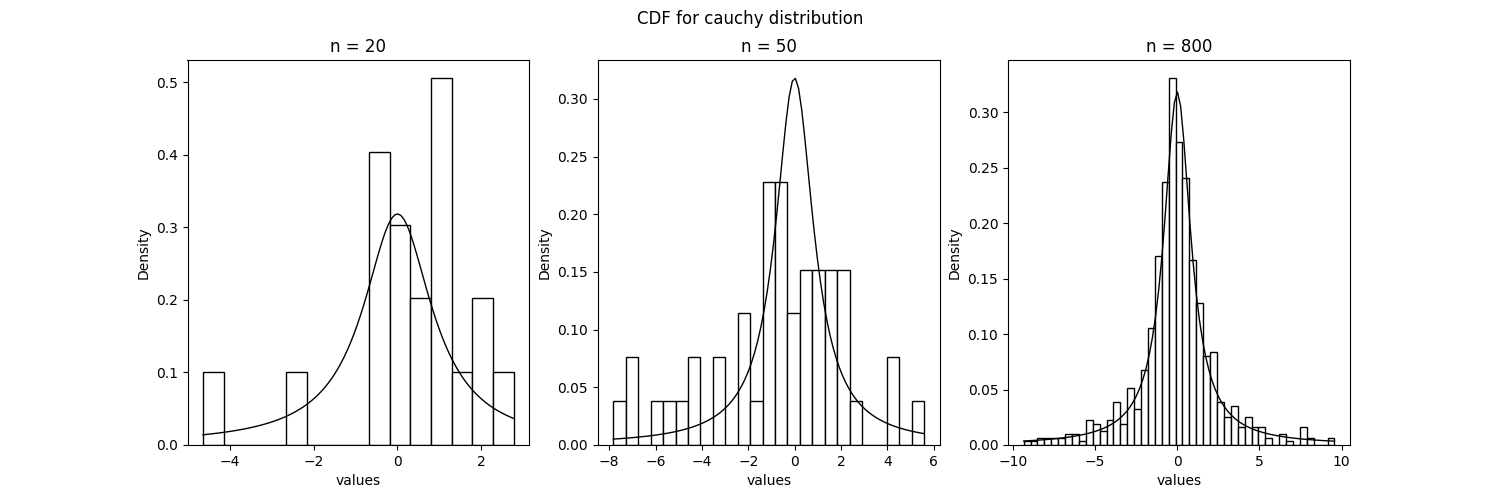
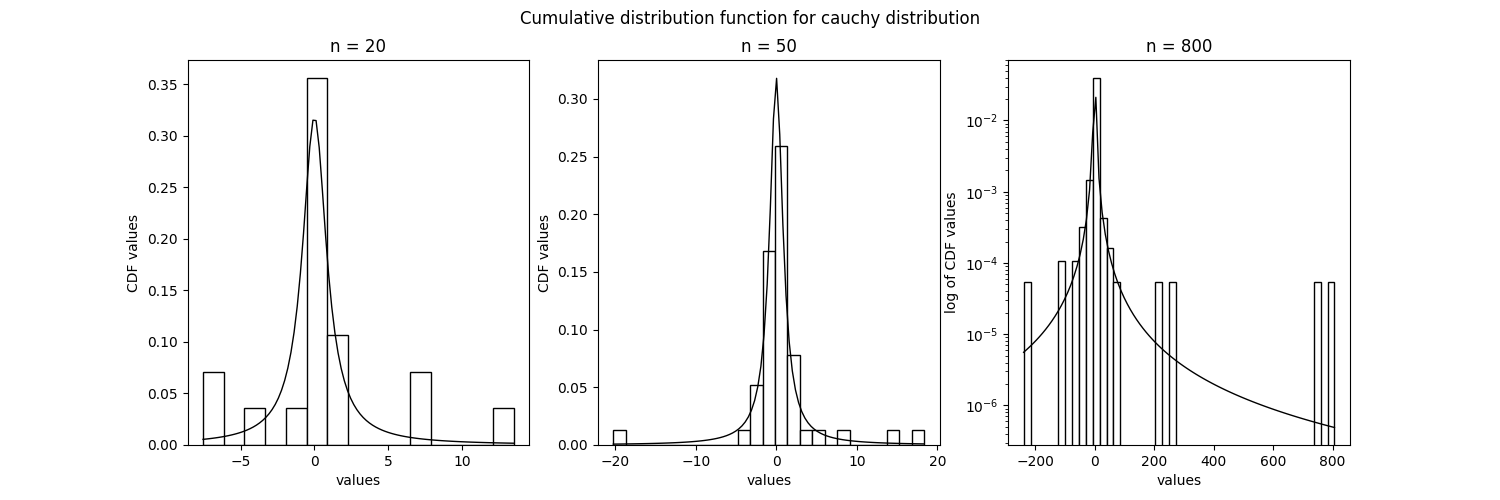
lab3-4

diff --git a/lab3-4/lab4.py b/lab3-4/lab4.py
@@ -1,0 +1,109 @@
+import numpy as np
+import pandas as pd
+import math
+import scipy
+import matplotlib.pyplot as plt
+import seaborn as sns
+
+ns = np.array([20, 100])
+significance = 0.05
+confidence_level = 1 - significance / 2 # 0.975
+
+data = {
+    'n': [],
+    'mean_min': [],
+    'mean_max': [],
+    'dev_min': [],
+    'dev_max': [],
+}
+
+figure, axes = plt.subplots(1, len(ns) * 2, figsize=(20, 10))
+
+for index, n in enumerate(ns):
+    sample = np.random.normal(0, 1, n)
+    mean = sample.mean()
+    dev = np.std(sample)
+    student_value = scipy.stats.t.ppf(confidence_level, n)
+    chi_square_value_min = scipy.stats.chi2.ppf(1 - significance / 2, n)
+    chi_square_value_max = scipy.stats.chi2.ppf(significance / 2, n)
+
+    mean_min = mean - dev * student_value / math.sqrt(n)
+    mean_max = mean + dev * student_value / math.sqrt(n)
+
+    dev_min = math.sqrt(n) * dev / math.sqrt(chi_square_value_min)
+    dev_max = math.sqrt(n) * dev / math.sqrt(chi_square_value_max)
+
+    data['n'].append(n)
+    data['mean_min'].append(mean_min)
+    data['mean_max'].append(mean_max)
+    data['dev_min'].append(dev_min)
+    data['dev_max'].append(dev_max)
+
+    sns.histplot(sample, ax=axes[index], stat='density', color='#FFEFD0')
+    axes[index].axvline(x=mean_min, color='#D400C9', linewidth=2, marker='o', markersize=10)
+    axes[index].axvline(x=mean_max, color='#D400C9', linewidth=2, marker='o', markersize=10)
+    axes[index].axvline(x=mean_min - dev_max, color='#0007FF', linewidth=2, marker='o', markersize=10)
+    axes[index].axvline(x=mean_max + dev_max, color='#0007FF', linewidth=2, marker='o', markersize=10)
+
+sns.lineplot(x='x', y='y', data={
+    'x': np.array([data['mean_min'][0], data['mean_max'][0]]),
+    'y': np.array([1, 1]),
+}, ax=axes[2], color='#D400C9', label='m interval n=20', linewidth=3, marker='o', markersize=10)
+sns.lineplot(x='x', y='y', data={
+    'x': np.array([data['mean_min'][1], data['mean_max'][1]]),
+    'y': np.array([1.1, 1.1]),
+}, ax=axes[2], color='#0007FF', label='m interval n=100', linewidth=3, marker='o', markersize=10)
+axes[2].set_ylim(0.9, 1.4)
+axes[2].legend()
+
+sns.lineplot(x='x', y='y', data={
+    'x': np.array([data['dev_min'][0], data['dev_max'][0]]),
+    'y': np.array([1, 1]),
+}, ax=axes[3], color='#D400C9', label='sigma interval n=20', linewidth=3, marker='o', markersize=10)
+sns.lineplot(x='x', y='y', data={
+    'x': np.array([data['dev_min'][1], data['dev_max'][1]]),
+    'y': np.array([1.1, 1.1]),
+}, ax=axes[3], color='#0007FF', label='sigma interval n=100', linewidth=3, marker='o', markersize=10)
+axes[3].set_ylim(0.9, 1.4)
+axes[3].legend()
+
+figure.savefig('plots/hists.png')
+
+result_df = pd.DataFrame(data)
+result_df.to_csv('res4/normal.csv', index=False)
+result_df
+
+significance = 0.05
+confidence_level = 1 - significance / 2 # 0.975
+
+data = {
+    'n': [],
+    'mean_min': [],
+    'mean_max': [],
+    'dev_min': [],
+    'dev_max': [],
+}
+
+for index, n in enumerate(ns):
+    sample = np.random.random(n)
+    mean = sample.mean()
+    s = math.sqrt(((sample - mean) ** 2 / n).sum())
+    m4 = ((sample - mean) ** 4).sum() / n
+    e = m4 / s ** 4 - 3
+    student_value = scipy.stats.t.ppf(confidence_level, n)
+
+    dev_min = s * (1 - 0.5 * student_value * math.sqrt(e + 2) / 10)
+    dev_max = s * (1 + 0.5 * student_value * math.sqrt(e + 2) / 10)
+
+    mean_min = mean - dev * student_value / math.sqrt(n)
+    mean_max = mean + dev * student_value / math.sqrt(n)
+
+    data['n'].append(n)
+    data['mean_min'].append(mean_min)
+    data['mean_max'].append(mean_max)
+    data['dev_min'].append(dev_min)
+    data['dev_max'].append(dev_max)
+
+result_df = pd.DataFrame(data)
+result_df.to_csv('res4/random.csv', index=False)
+result_df

diff --git a/lab1-2/graphics.py b/lab1-2/graphics.py
@@ -3,35 +3,34 @@ from math import gamma
 import matplotlib.pyplot as plt
 
 
-def print_graphics(values: list) -> None:
+def print_graphics(N: list) -> None:
     # Normal distribution
     mu_normal = 0.0
     var_normal = 1.0
-    sample_normal = [np.random.normal(mu_normal, var_normal, n) for n in values]
+    sample_normal = [np.random.normal(mu_normal, var_normal, n) for n in N]
 
     # Cauchy distribution
     mu_cauchy = 0.0
     var_cauchy = 1.0
-    sample_cauchy = [mu_cauchy + var_cauchy * np.random.standard_cauchy(n) for n in values]
+    sample_cauchy = [mu_cauchy + var_cauchy * np.random.standard_cauchy(n) for n in N]
 
     # Student's distribution
     t_student = 3.0
-    sample_student = [np.random.standard_t(t_student, n) for n in values]
+    sample_student = [np.random.standard_t(t_student, n) for n in N]
 
     # Poisson distribution
     mu_poisson = 10.0
-    sample_poisson = [np.random.poisson(mu_poisson, n) for n in values]
+    sample_poisson = [np.random.poisson(mu_poisson, n) for n in N]
 
     # Uniform distribution
-
     a_uniform = -np.sqrt(3)
     b_uniform = np.sqrt(3)
-    sample_uniform = [np.random.uniform(a_uniform, b_uniform, n) for n in values]
+    sample_uniform = [np.random.uniform(a_uniform, b_uniform, n) for n in N]
 
     samples = [
         sample_normal,
-        [sample_cauchy[i][(np.abs(sample_cauchy[i]) <= 10)] for i in range(len(values))],  # to avoid outliers
-        [sample_student[i][(np.abs(sample_student[i]) <= 10)] for i in range(len(values))],  # to avoid outliers
+        sample_cauchy,
+        sample_student,
         sample_poisson,
         sample_uniform
     ]
@@ -59,22 +58,26 @@ def print_graphics(values: list) -> None:
 
     densities = [calc_normal, calc_cauchy, calc_student, calc_poisson, calc_uniform]
 
-    names = ['normal', 'cauchy', "student", 'poisson', 'uniform']
+    names = ['normal', 'cauchy', "student's", 'poisson', 'uniform']
 
     bins = [15, 25, 45]
 
     for j in range(len(samples)):
         plt.figure(figsize=(15, 5))
-        plt.suptitle(f'CDF for {names[j]} distribution')
-        for i in range(len(values)):
-            plt.subplot(100 + len(values) * 10 + i + 1)
+        plt.suptitle(f'Cumulative distribution function for {names[j]} distribution')
+        for i in range(len(N)):
+            plt.subplot(100 + len(N) * 10 + i + 1)
             x_min = min(samples[j][i])
             x_max = max(samples[j][i])
             x = np.linspace(x_min, x_max, 100)
             y = [densities[j](xi) for xi in x]
             plt.hist(samples[j][i], bins=bins[i], density=True, color='white', edgecolor='black')
             plt.plot(x, y, color='black', linewidth=1)
-            plt.title(f'n = {values[i]}')
+            plt.title(f'n = {N[i]}')
             plt.xlabel('values')
-            plt.ylabel('Density')
+            plt.ylabel('CDF values')
+            plt.yscale('linear')
+            if N[i] > 500 and names[j] == 'cauchy':
+                plt.yscale('log')
+                plt.ylabel('log of CDF values')
         plt.show()

diff --git a/lab3-4/lab3.py b/lab3-4/lab3.py
@@ -1,0 +1,49 @@
+import numpy as np
+import pandas as pd
+import matplotlib.pyplot as plt
+import seaborn as sns
+import math
+
+
+def normal_distribution(n):
+    return np.random.normal(0, 1, n)
+
+
+def cauchy_distribution(n):
+    return np.random.standard_cauchy(n)
+
+
+def student_distribution(n):
+    return np.random.standard_t(3, n)
+
+
+def poisson_distribution(n):
+    return np.random.poisson(10, n)
+
+
+def uniform_distribution(n):
+    return np.random.uniform(-math.sqrt(3), math.sqrt(3), n)
+
+
+distributions = [
+    ('normal', normal_distribution),
+    ('cauchy', cauchy_distribution),
+    ('student', student_distribution),
+    ('poisson', poisson_distribution),
+    ('uniform', uniform_distribution),
+]
+ns = np.array([20, 100])
+
+for distribution_name, distribution_f in distributions:
+    figure, axes = plt.subplots(2, 1, figsize=(20, 10))
+
+    for index, n in enumerate(ns):
+        values = distribution_f(n)
+
+        sns.boxplot(values, ax=axes[index], orient='h', color='lightgreen', medianprops=dict(color='orange'), whiskerprops=dict(color='green'), flierprops=dict(marker='o', markersize=5, markerfacecolor='red'))
+
+        axes[index].set_xlabel('x')
+        axes[index].set_title(f'n = {n}')
+
+    figure.savefig(f'plots/{distribution_name}.png')
+
